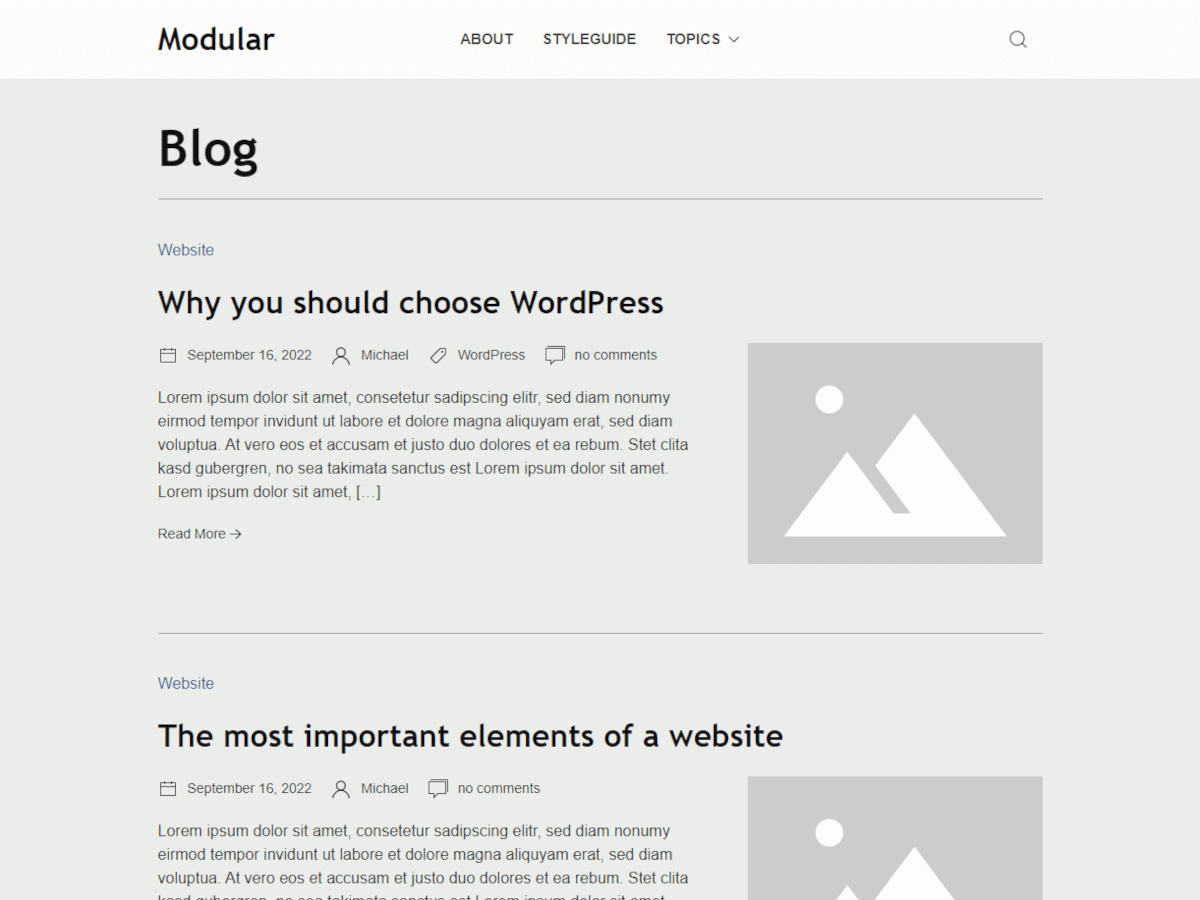
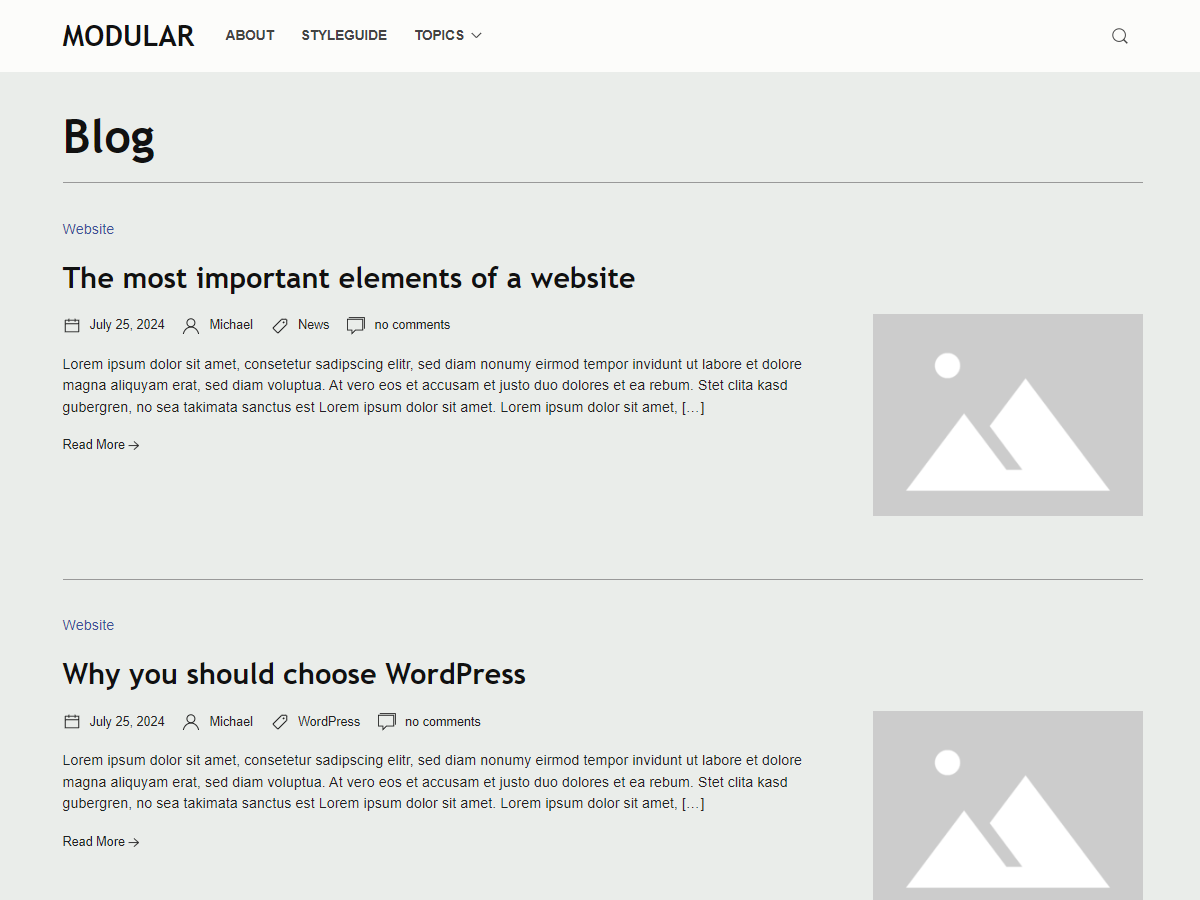
= 1.1.0 = * Update: Version to 1.1 * Update: screenshot.png * Update: Default container width is now 1200px like in blockeditor * Update: style.css & style-editor.css * Remove: AjaxPostsLoader2 and zmtheme2.js * Remove: rotating class & js * Remove: js social buttons script * Fix: in navsearch autof

diff --git a/style.css b/style.css
@@ -5,7 +5,7 @@ Author: ZuestMedia
 Author URI: https://zuestmedia.com/
 Text Domain: zmt-modular
 Domain Path: /languages
-Version: 1.0.29
+Version: 1.1.0
 Description: The Modular Theme is a lightweight, fast and fully customizable ZuestMedia WordPress Theme. This theme combines the new modern features of Gutenberg Block Editor respectively concepts from Full Site Editing (FSE) with the proven classic WordPress theme structure. For a quick start, import a preconfigured starter design directly from the Design-Explorer and get started right away. Use the Customizer to define global settings like colors, fonts, etc. and customize every part of your website. Thanks to the modular design, header and footer builders are a thing of the past. With the template editor (Pro) or by using a child theme you can easily create as many sections as you need in the header, center or footer area and arrange them as you need.
 Tags: accessibility-ready, blog, custom-logo, e-commerce, rtl-language-support, grid-layout, one-column, two-columns, custom-background, custom-colors, custom-header, custom-menu, featured-image-header, featured-images, flexible-header, full-width-template, sticky-post, theme-options, threaded-comments, translation-ready, wide-blocks, footer-widgets, portfolio, left-sidebar, right-sidebar
 Requires at least: 4.7
@@ -25,11 +25,9 @@ ZMUPDAPI: wp
 	1. WP Blocks alignfull / alignwide
   2. wp-blocks margin
   3. wp-block optimizations
-  4. offcanvas_toggle rotation
-  5. -
-  6. -
-  7. -
-  8. Must Use: display settings hide on small medium large
+  4. Comments
+  5. Accessibility in Content
+  6. Must Use: display settings hide on small medium large
 
 ----------------------------------------------------------------------------- */
 /* 0. WordPress Core
@@ -150,23 +148,6 @@ a img.aligncenter {
   /* commentstyle from postauthor */
 }
 
-#cancel-comment-reply-link{
-  margin-left:10px;
-  font-size:1rem;
-}
-
-/* WordPress Content and Comments Links must be underlined */
-.zm-wp-block-container a,
-.uk-comment-body a {
-  text-decoration:underline;
-}
-.zm-wp-block-container a:hover:not(.wp-block-button__link),
-.uk-comment-body a:hover:not(.wp-block-button__link) {
-	transition: border 0.2s ease-in-out;
-	border-bottom:1px solid;
-	text-decoration:none;
-}
-
 /* -------------------------------------------------------------------------- */
 /*	1. WP Blocks alignfull / alignwide
     -- braucht variable von main container width
@@ -211,58 +192,64 @@ a img.aligncenter {
 /*	2. wp-blocks margin
 /* -------------------------------------------------------------------------- */
 
-.wp-block-post-content > div,
-.zm-wp-block-container > div {
-  margin-top:40px;
-  /*margin-bottom:40px;*/
-}
-.wp-block-post-content > *:first-child,
-.zm-wp-block-container > *:first-child {
-  margin-top:0;
-}
-.wp-block-column, .wp-block-column > div, .wp-block-columns > .block-core-columns{
-  margin:0 !important;
+.wp-block-post-content  > * ,
+.zm-wp-block-container > * {
+  margin-block-start: 20px;
+  margin-block-end: 0;
 }
 
 /* -------------------------------------------------------------------------- */
 /*	3. wp-block optimizations
 /* -------------------------------------------------------------------------- */
 
-  /* replaces inherit */
-  pre.wp-block-verse{
-    font-family: revert;
-  }
-
   /* align separator left by default not center */
   .wp-block-separator {
   	margin-left:0;
   	margin-right:0;
+    text-align:left;
+    padding-left:0;
   }
+  .wp-block-separator:before {
+    padding-left:0;
+  }  
   .wp-block-separator.aligncenter{
     margin-left:auto;
   	margin-right:auto;
+    text-align:center;
+  }
+  .wp-block-separator.aligncenter:before {
+    padding-left:2em;
   }
 
 /* -------------------------------------------------------------------------- */
-/*	4. offcanvas_toggle rotation
-    -- set class "zmrotate" to change via jquery in zmtheme.js
+/*	4. Comments
 /* -------------------------------------------------------------------------- */
 
-.zmrotated-45 {
-    -webkit-transform: rotate(45deg);
-    -moz-transform: rotate(45deg);
-    -o-transform: rotate(45deg);
-    -ms-transform: rotate(45deg);
-    transform: rotate(45deg);
-    -webkit-transition: transform 0.5s ease;
-    -moz-transition: transform 0.5s ease;
-    -ms-transition: transform 0.5s ease;
-    -o-transition: transform 0.5s ease;
-    transition: transform 0.5s ease;
+#cancel-comment-reply-link{
+  margin-left:10px;
+  font-size:1rem;
 }
 
 /* -------------------------------------------------------------------------- */
-/*	8. Must Use: display settings hide on small medium large
+/*	5. Accessibility in Content
+/* -------------------------------------------------------------------------- */
+
+/* WordPress Content and Comments Links must be underlined */
+.zm-wp-block-container a,
+.uk-comment-body a {
+  text-decoration:underline;
+}
+
+/* adds hover effect on links in paragraphs */
+.zm-wp-block-container p > a:hover,
+.uk-comment-body p > a:hover {
+	transition: border 0.2s ease-in-out;
+	border-bottom:1px solid;
+	text-decoration:none;
+}
+
+/* -------------------------------------------------------------------------- */
+/*	6. Must Use: display settings hide on small medium large
 /* -------------------------------------------------------------------------- */
 /* Phone landscape and bigger */
 @media (max-width: 639px) {

diff --git a/style-editor.css b/style-editor.css
@@ -9,36 +9,15 @@
 /* 0.  Block Editor WYSIWYG Optimizations
 -------------------------------------------------------------- */
 
-  /*
-  * add margin auto to block editor because of full site editing ready with theme.json
-  * if using theme.json, instead of add_theme_support for blocks, margin auto is removed
-  * now only in template view shoud be max with 100%
-  */
-
-/*. body = editor-styles-wrapper*/
+  /*body = editor-styles-wrapper*/
   body{
     padding:0;
   }
 
-  /* Main column width */
-  .wp-block {
-      /*max-width: var(--zm-wp-block-width);not working because css var is not set in backend without content area*/
-      /*max-width: 1200px;now setted via theme.json file!*/
-  }
-  /* disables div.wp-block default margins*/
-  div.wp-block {
-      /*margin-top:0;
-      margin-bottom:0;*/
-  }
-
-  /*adds margin to all child blocks of the content area*/
-  .is-root-container > div {
-    margin-top:40px;
-    /*margin-bottom:40px;*/
-  }
-  /*removes margin-top from first-child*/
-  .is-root-container > *:first-child {
-    margin-top:0;
+  /*default margin between blocks*/
+  .is-root-container > * {
+    margin-block-start: 20px;
+    margin-block-end: 0;
   }
 
   /* Width of "full-wide" blocks */
@@ -50,13 +29,4 @@
     .wp-block[data-align='wide'] {
         max-width: 90vw;
     }
-  }
-
-  /* font-wight */
-  .editor-post-title__input{
-    font-weight: inherit;
-  }
-
-  hr{
-    border-color:unset !important;
   }

diff --git a/config/theme/theme.php b/config/theme/theme.php
@@ -26,7 +26,7 @@ class theme {
 
     $this->displayname = __( 'ZMT Modular', 'zmt-modular' );
 
-    $this->version = '1.0.29';
+    $this->version = '1.1.0';
 
     $this->framework = 'zm-uikit';
 
